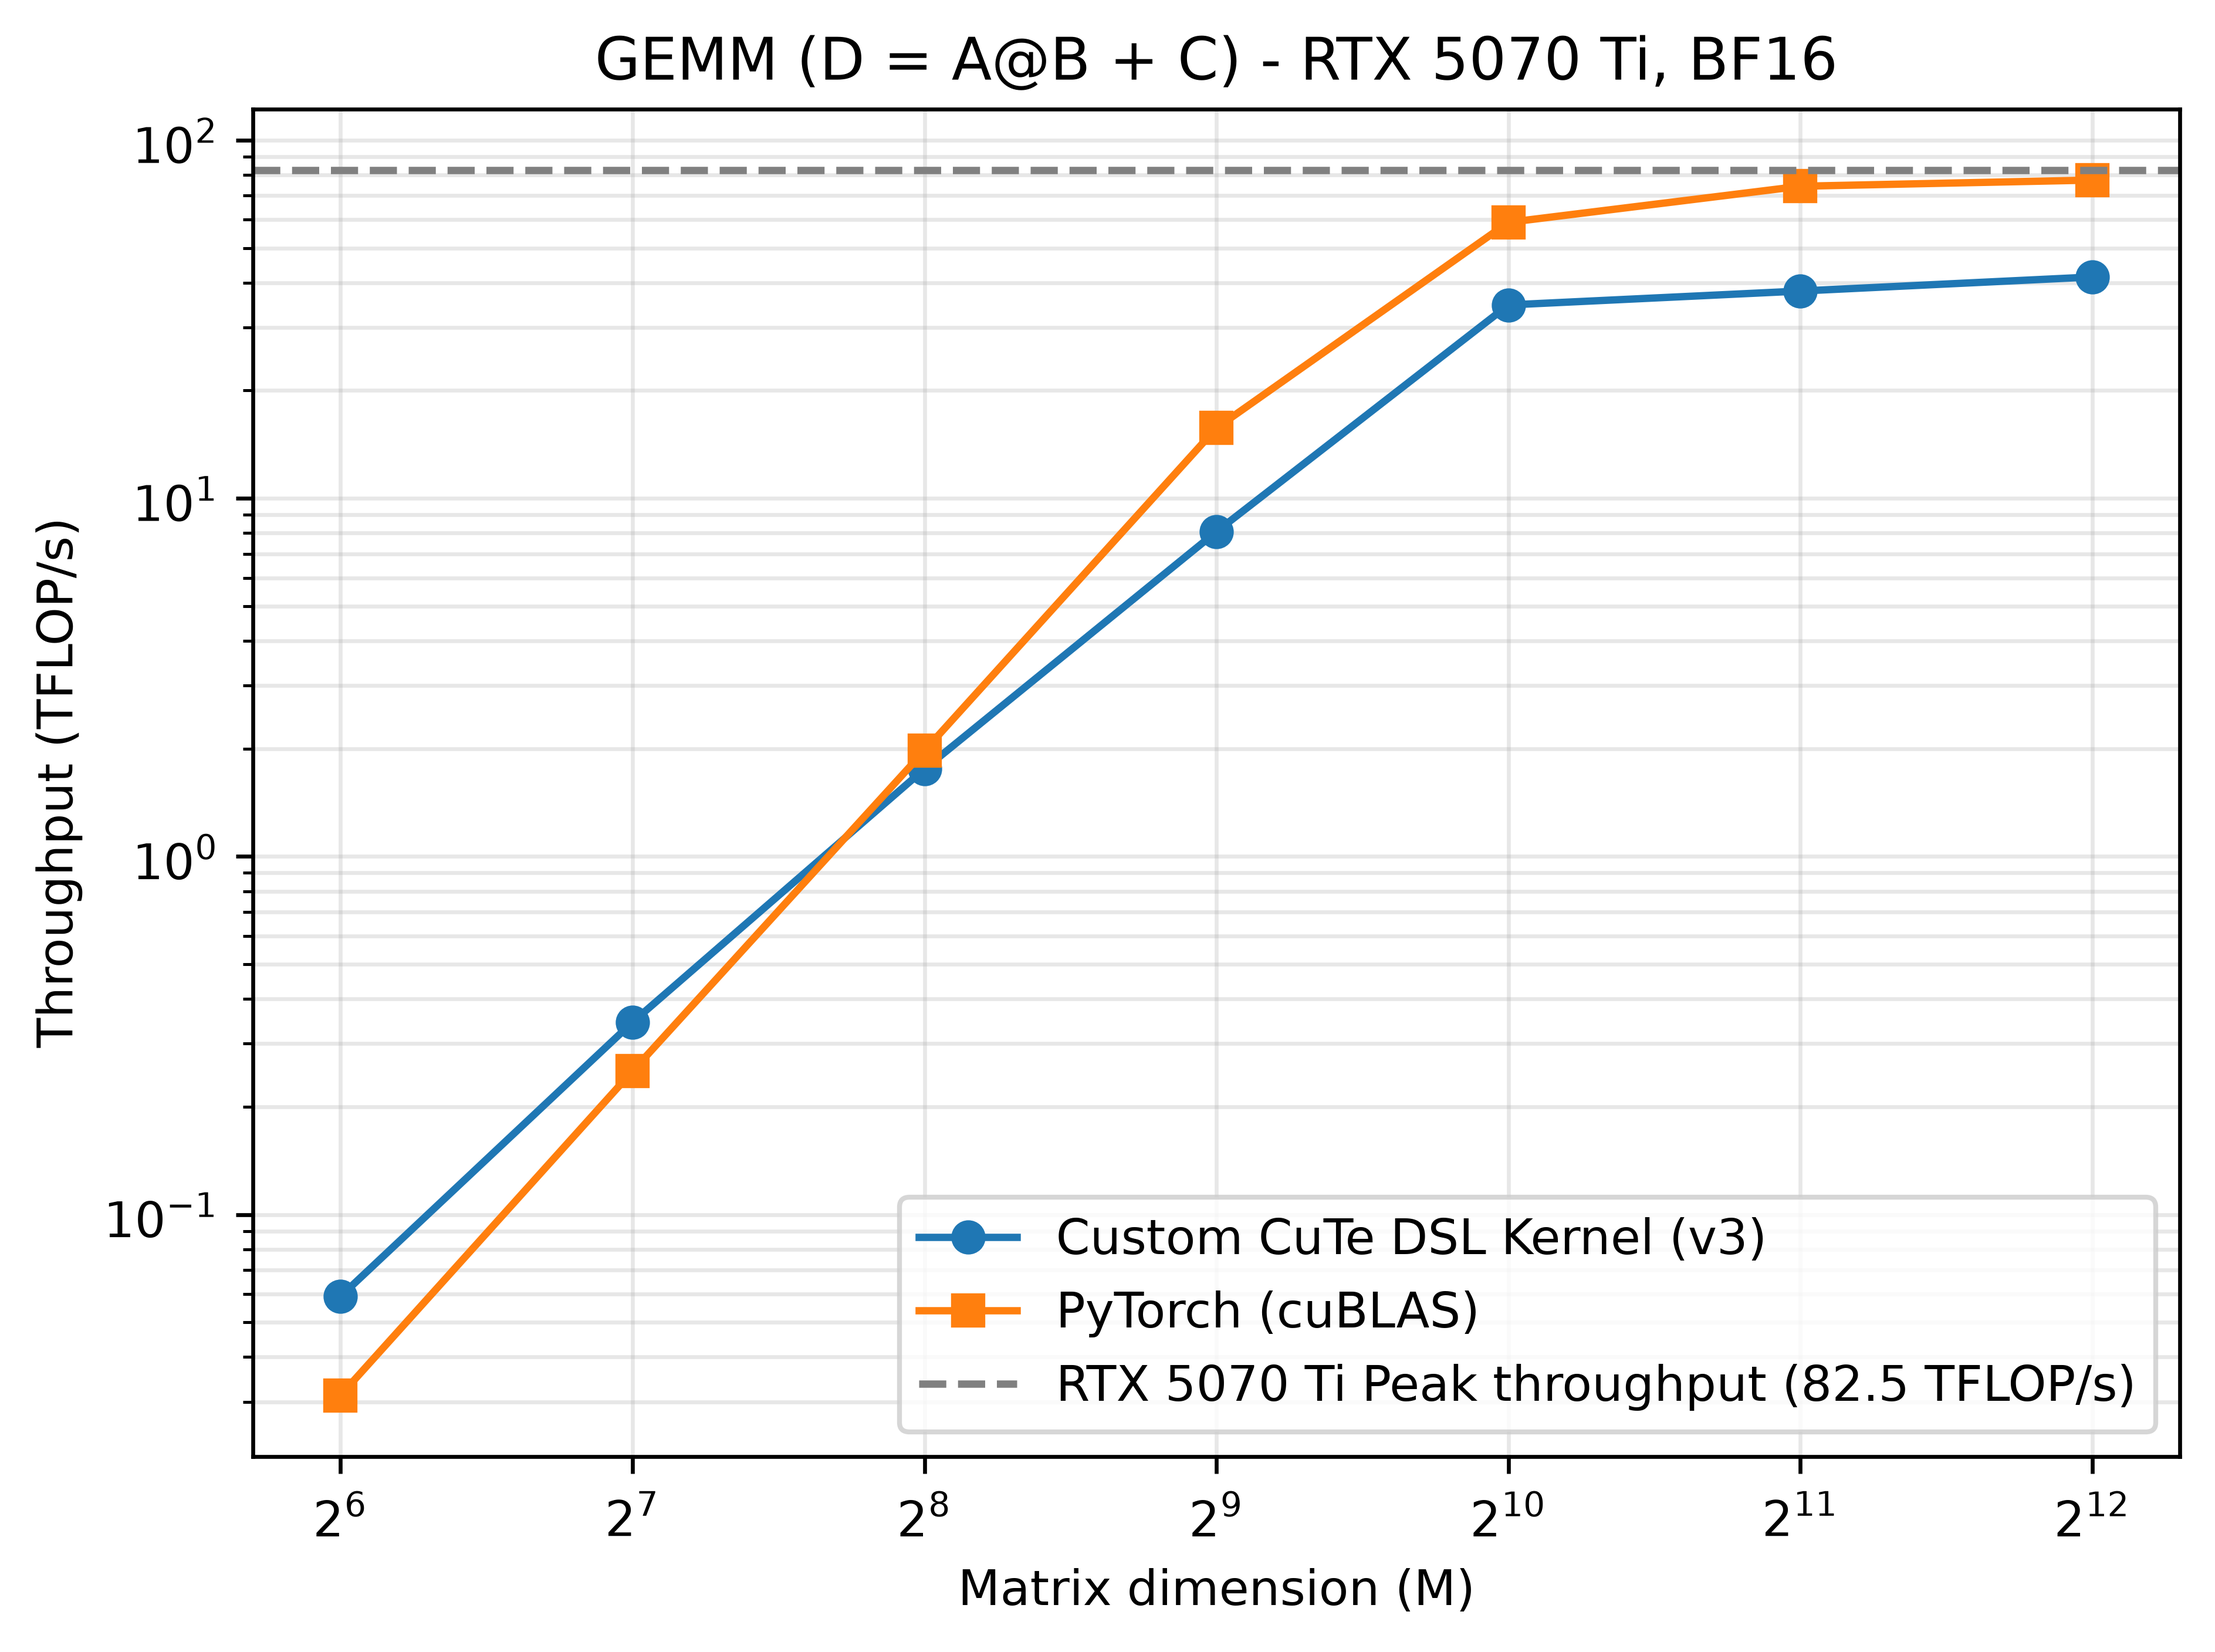
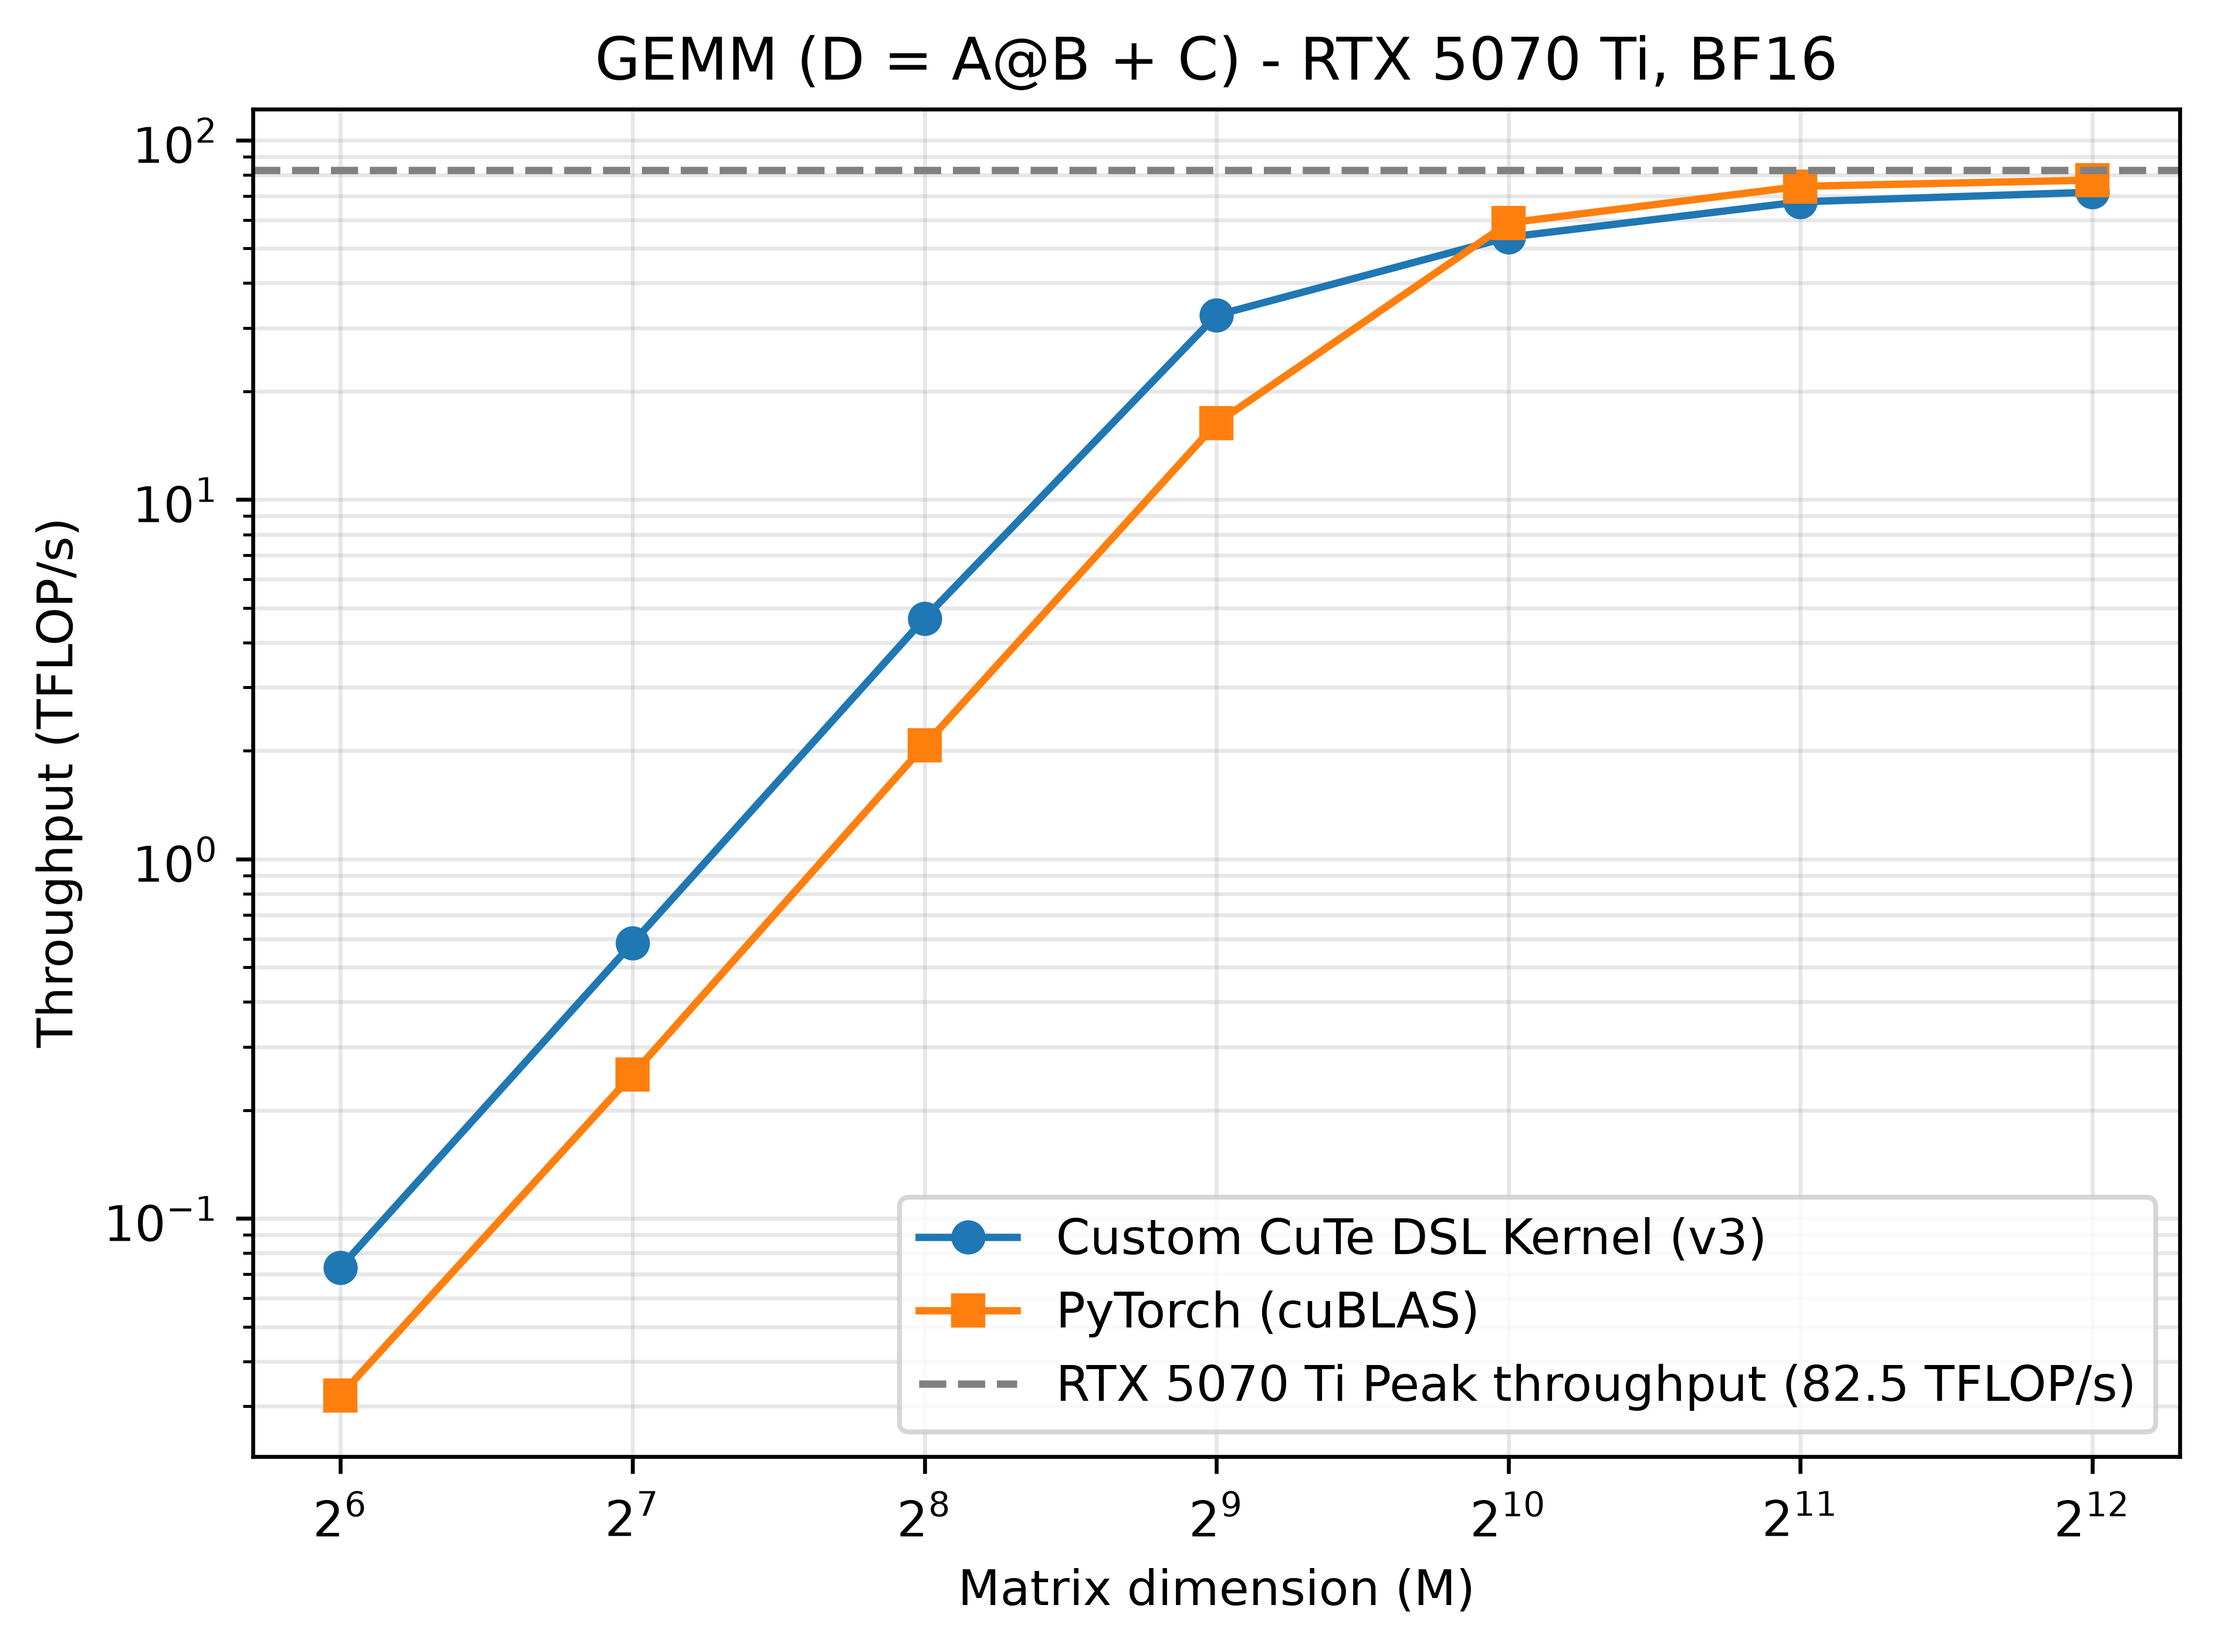
Adapt swizzle to bs_k

diff --git a/src/gemm_v3.py b/src/gemm_v3.py
@@ -60,8 +60,8 @@ def _kernel_gemm_v3(
     sB_outer = cute.make_ordered_layout((bs_n, (size_atom_k, nb_k_steps, num_stages)), order=(2, (0, 1, 3)))
     sD_outer = cute.make_ordered_layout((bs_m, bs_n), order=(1, 0))
 
-    sw_128B = cute.make_swizzle(3, 4, 3)   # chunk 16 B ^ (ligne % 8), lignes de 128 B
-    sw_256B = cute.make_swizzle(3, 4, 4)   # chunk 16 B ^ (ligne % 8), lignes de 256 B
+    sw_128B = cute.make_swizzle(2, 4, 3)   # chunk 16 B ^ (ligne % 8), lignes de 128 B
+    sw_256B = cute.make_swizzle(2, 4, 4)   # chunk 16 B ^ (ligne % 8), lignes de 256 B
 
     ptr_a = smem.allocate(cute.cosize(sA_outer) * mA.dtype.width // 8, byte_alignment=128)
     ptr_b = smem.allocate(cute.cosize(sB_outer) * mB.dtype.width // 8, byte_alignment=128)
@@ -219,8 +219,8 @@ def _host_kernel_gemm_v3(
     )
     
     permutation_mnk = (
-        shape_mnk[0] * atom_layout_mnk[0] * 2,  # 128
-        shape_mnk[1] * atom_layout_mnk[1] * 4,  # 128
+        shape_mnk[0] * atom_layout_mnk[0] * 2,  # 64
+        shape_mnk[1] * atom_layout_mnk[1] * 4,  # 64
         shape_mnk[2] * atom_layout_mnk[2],      # 16
     )
     
